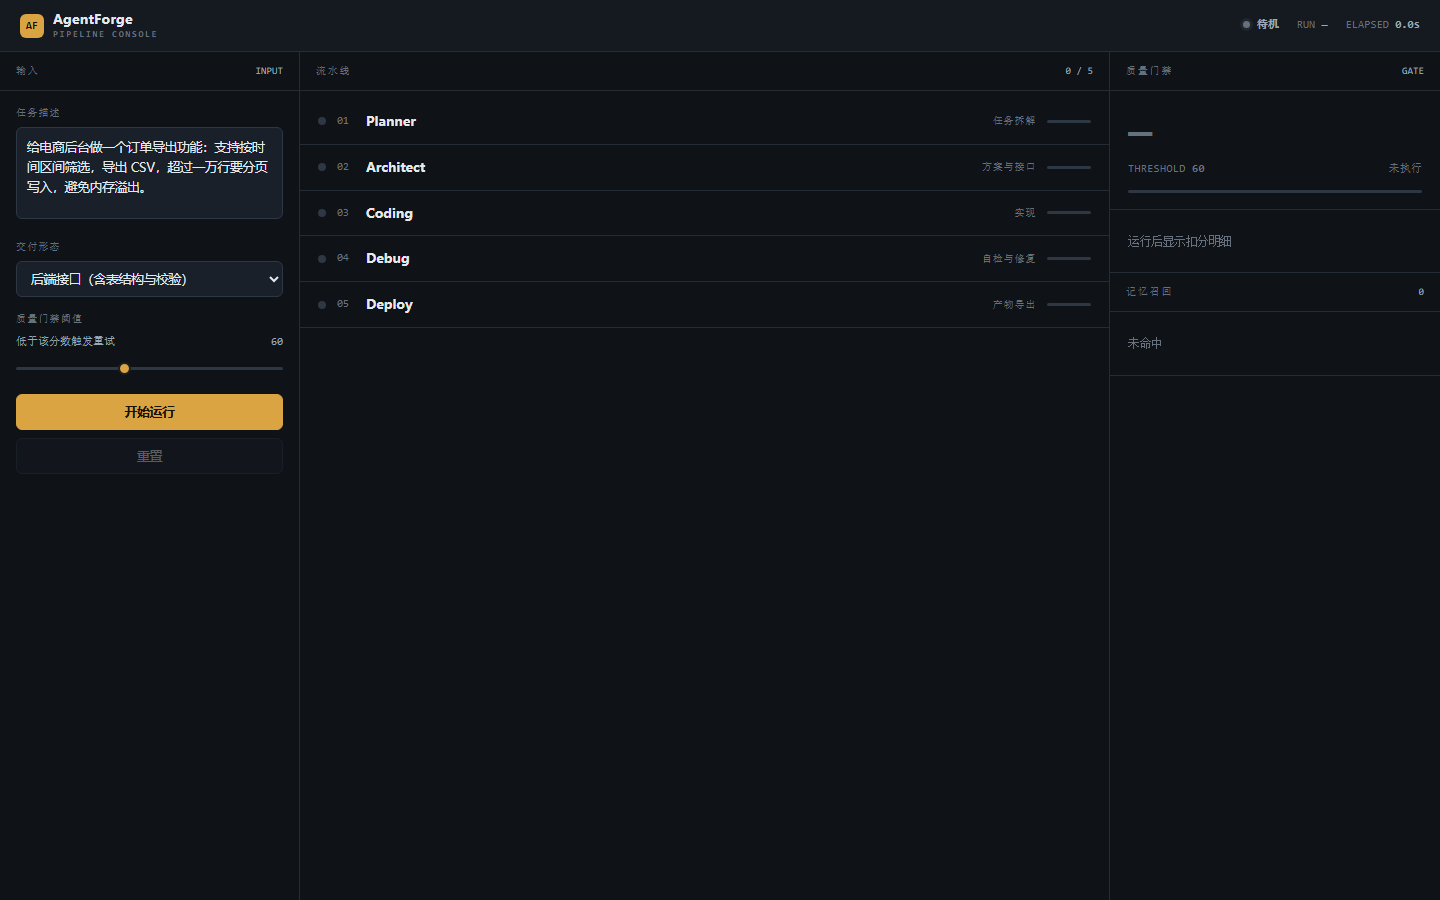
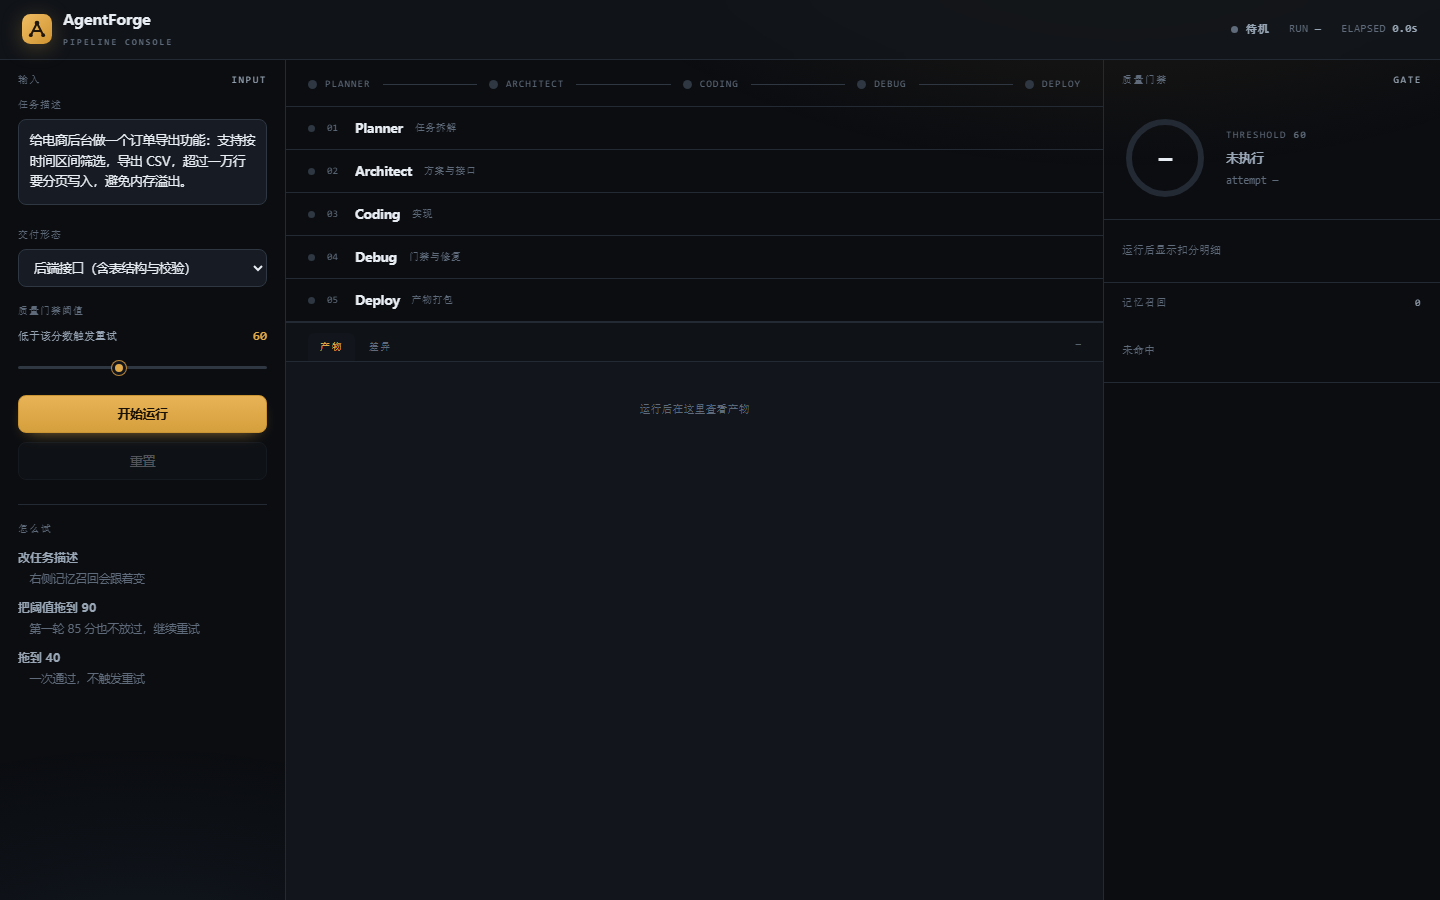
feat(ui): 每个阶段展示推理过程（观察 / 权衡 / 结论）
- 把原先单行日志改为结构化推理块，可点击展开收起，阶段标题右侧保留一句结论
- Planner / Architect / Coding / Debug / Deploy 各自给出观察、权衡、结论
- Debug 阶段展示门禁判定链路：校验 → 判定 → 判断 → 修复 → 结果
- 产物面板固定高度，运行结束后自动回到列表顶部

diff --git a/index.html b/index.html
@@ -94,28 +94,36 @@
   .rline i{position:absolute;inset:0;width:0;background:var(--green);transition:width .5s}
 
   /* 步骤 */
-  .steps{flex:none;overflow-y:auto;max-height:236px}
+  .steps{flex:1;min-height:0;overflow-y:auto}
   .step{border-bottom:1px solid var(--line)}
-  .srow{display:flex;align-items:center;gap:12px;padding:11px 22px}
+  .srow{display:flex;align-items:center;gap:12px;padding:10px 22px;cursor:pointer;user-select:none}
+  .srow:hover .sname{color:var(--ink)}
+  .ssum{font-size:11.5px;color:var(--ink-3);flex:1;text-align:right;padding-right:4px;
+        white-space:nowrap;overflow:hidden;text-overflow:ellipsis}
+  .step.open .ssum{color:var(--ink-3)}
+  .chev{width:12px;height:12px;flex:none;color:var(--ink-3);transition:transform .22s}
+  .step.open .chev{transform:rotate(90deg);color:var(--amber)}
   .sn{font-family:var(--mono);font-size:10px;color:var(--ink-3);width:16px;flex:none}
   .sname{font-weight:600;font-size:12.5px;flex:none}
-  .stag{font-family:var(--mono);font-size:9.5px;color:var(--ink-3);flex:1;letter-spacing:.1em;
-        text-transform:uppercase}
+  .stag{font-family:var(--mono);font-size:9.5px;color:var(--ink-3);flex:none;letter-spacing:.1em;
+        text-transform:uppercase;width:78px}
   .sdot{width:7px;height:7px;border-radius:50%;background:var(--line-2);flex:none;transition:.3s}
   .step.act .sdot{background:var(--amber);box-shadow:0 0 0 3px rgba(224,169,74,.14)}
   .step.ok .sdot{background:var(--green)}
   .step.act .sname{color:var(--amber)}
-  .log{display:none;padding:0 22px 12px 50px;font-family:var(--mono);font-size:10.5px;
-       line-height:1.8;color:var(--ink-2)}
-  .step.act .log{display:block}
-  .log div{animation:fin .25s ease;white-space:pre-wrap}
+  .think{display:none;padding:2px 22px 14px 50px}
+  .step.open .think{display:block}
+  .tk{display:flex;gap:10px;padding:3px 0;font-size:11px;line-height:1.7;animation:fin .3s ease}
+  .tk b{flex:none;width:30px;font-family:var(--mono);font-size:9.5px;letter-spacing:.06em;
+        color:var(--amber);font-weight:600;padding-top:3px}
+  .tk span{color:var(--ink-2)}
   @keyframes fin{from{opacity:0}to{opacity:1}}
   .log .k{color:var(--blue)} .log .g{color:var(--green)} .log .a{color:var(--amber)} .log .r{color:var(--red)}
   .cur::after{content:"▌";color:var(--amber);animation:bl 1s steps(2) infinite}
   @keyframes bl{50%{opacity:0}}
 
   /* 产物面板 */
-  .artifact{flex:1;min-height:0;display:flex;flex-direction:column;border-top:1px solid var(--line);background:var(--bg-2)}
+  .artifact{flex:none;height:284px;display:flex;flex-direction:column;border-top:1px solid var(--line);background:var(--bg-2)}
   .ahead{flex:none;display:flex;align-items:center;gap:2px;padding:10px 22px 0}
   .tab{font-family:var(--mono);font-size:10px;letter-spacing:.14em;text-transform:uppercase;
        color:var(--ink-3);padding:6px 12px;border-radius:6px 6px 0 0;cursor:pointer;transition:.2s}
@@ -346,24 +354,41 @@
       d.className="step"; d.id="step"+i;
       d.innerHTML='<div class="srow"><span class="sdot"></span><span class="sn">'+("0"+(i+1)).slice(-2)+
         '</span><span class="sname">'+s.n+'</span><span class="stag">'+s.t+
-        '</span></div><div class="log" id="log'+i+'"></div>';
+        '</span><span class="ssum" id="sum'+i+'"></span>'+
+        '<svg class="chev" viewBox="0 0 12 12" fill="none" stroke="currentColor" stroke-width="1.6">'+
+        '<path d="M4 2l4 4-4 4" stroke-linecap="round" stroke-linejoin="round"/></svg>'+
+        '</div><div class="think" id="think'+i+'"></div>';
+      d.querySelector(".srow").onclick=function(){ d.classList.toggle("open"); };
       stepsEl.appendChild(d);
     });
   }
   function stepState(i,cls){
     var el=$("step"+i); if(!el) return;
     el.classList.remove("act","ok"); if(cls) el.classList.add(cls);
+    if(cls==="act"){
+      el.classList.add("open");
+      if(el.scrollIntoView) el.scrollIntoView({block:"nearest",behavior:"smooth"});
+    }
   }
-  async function typeLog(i,lines,speed){
-    var box=$("log"+i);
-    for(var k=0;k<lines.length;k++){
+  function setSum(i,txt){ var e=$("sum"+i); if(e) e.textContent=txt; }
+  async function think(i,rows,speed){
+    var box=$("think"+i);
+    for(var k=0;k<rows.length;k++){
       if(aborted) return;
       var d=document.createElement("div");
-      d.className="cur"; d.innerHTML=lines[k];
-      box.appendChild(d); box.scrollTop=box.scrollHeight;
-      await sleep(speed||200);
-      d.classList.remove("cur");
+      d.className="tk";
+      d.innerHTML="<b>"+rows[k][0]+"</b><span>"+rows[k][1]+"</span>";
+      box.appendChild(d);
+      if(box.scrollIntoView) box.scrollIntoView({block:"nearest"});
+      await sleep(speed||240);
     }
+  }
+  async function stage(i,sum,rows,speed){
+    railState(i,"act"); stepState(i,"act"); setSum(i,sum);
+    await think(i,rows,speed||240);
+    if(aborted) return false;
+    railState(i,"ok"); stepState(i,"ok");
+    return true;
   }
 
   /* 差异（LCS） */
@@ -469,66 +494,75 @@
     $("btnRun").disabled=true; $("btnReset").disabled=true;
     buildRail(); buildSteps();
     scoreEl.textContent="—"; scoreEl.style.color="var(--ink-3)";
-    ringFg.style.strokeDashoffset=D; verdict.textContent="未执行"; verdict.style.color="var(--ink-2)";
+    ringFg.style.strokeDashoffset=D; ringFg.style.stroke="#5f6b7a";
+    verdict.textContent="未执行"; verdict.style.color="var(--ink-2)";
     attemptsEl.textContent="attempt —";
     rulesEl.innerHTML='<div class="empty">运行后显示扣分明细</div>';
     abody.innerHTML='<div class="ph">运行后在这里查看产物</div>'; aCnt.textContent="—";
-    curTab="out"; document.querySelectorAll(".tab").forEach(function(x){x.classList.toggle("on",x.dataset.tab==="out")});
+    curTab="out";
+    document.querySelectorAll(".tab").forEach(function(x){x.classList.toggle("on",x.dataset.tab==="out")});
 
     var task=$("task").value, hits=recall(task);
     renderMem(hits);
 
-    railState(0,"act"); stepState(0,"act");
-    await typeLog(0,['<span class="k">input</span>  '+task.slice(0,28)+'…',
-      '拆解为 4 个可交付项：接口契约 / 分页策略 / 时间处理 / 异常边界',
-      '<span class="g">done</span>  4 项 · 预计改动 3 个文件'],220);
-    if(aborted) return; railState(0,"ok"); stepState(0,"ok");
+    if(!await stage(0,"拆成 4 个可交付项",[
+      ["观察","需求里有三个硬约束：按时间区间筛选、导出行数未知、内存不能随行数增长"],
+      ["权衡","先全量读出再写文件？实现最快，但十万行必然爆内存 —— 直接排除"],
+      ["结论","拆成四块：接口契约 / 分页策略 / 时间处理 / 异常边界"]
+    ])) return;
 
-    railState(1,"act"); stepState(1,"act");
-    await typeLog(1,[
-      hits.length ? '<span class="a">recall</span>  命中 '+hits.length+' 条经验（最高 '+hits[0].s.toFixed(1)+'）'
-                  : '<span class="r">recall</span>  未命中历史经验，按默认策略生成',
-      '契约：GET /api/orders/export  →  text/csv',
-      '<span class="k">note</span>  导出类接口单独鉴权'],200);
-    if(aborted) return; railState(1,"ok"); stepState(1,"ok");
+    if(!await stage(1,"游标分页 · 单独鉴权",[
+      ["观察", hits.length
+        ? "命中 "+hits.length+" 条历史经验；现有列表接口用的是 LIMIT OFFSET"
+        : "未命中历史经验；现有列表接口用的是 LIMIT OFFSET"],
+      ["权衡","OFFSET 深翻页会越翻越慢，第一万页要扫过前一万页；改游标分页的代价是不能跳页 —— 导出不需要跳页"],
+      ["结论","GET /api/orders/export，游标 + 流式写出；导出口单独鉴权，不复用列表权限位"]
+    ])) return;
 
-    railState(2,"act"); stepState(2,"act");
-    await typeLog(2,['<span class="k">write</span>  OrderExportController.java',
-      '<span class="k">write</span>  OrderExportService.java'],240);
+    if(!await stage(2,"生成 Controller + Service",[
+      ["输入","契约：单接口返回 text/csv；策略：游标分批，每批 1000 条"],
+      ["生成","OrderExportController / OrderExportService"],
+      ["注意","CSV 需先写 UTF-8 BOM，否则 Excel 打开中文乱码"]
+    ])) return;
+    renderOut(OUT_1);
+
+    railState(3,"act"); stepState(3,"act"); setSum(3,"门禁校验中");
+    await think(3,[["校验","第 1 轮产物：代码块闭合 / 章节数 / 语言比例 / 长度 / 边界说明"]],220);
     if(aborted) return;
-    renderOut(OUT_1); railState(2,"ok"); stepState(2,"ok");
-
-    railState(3,"act"); stepState(3,"act");
-    await typeLog(3,['<span class="k">gate</span>  第 1 轮产物校验'],200);
-    if(aborted) return;
-    var th=+thEl.value, s1=judge(OUT_1,th);
+    var th=+thEl.value, s1=judge(OUT_1,th), sFinal=s1;
     attemptsEl.textContent="attempt 1 / 2";
 
     if(s1<th){
-      await typeLog(3,['<span class="r">fail</span>  得分 '+s1+' 低于阈值 '+th+'，带修复指令重试',
-        '<span class="k">fix</span>   补全代码块闭合 / 增加章节 / 补边界说明'],260);
+      await think(3,[
+        ["判定","得分 "+s1+" 低于阈值 "+th+"，扣分集中在完整性，而非正确性"],
+        ["判断","这类问题可自动修复，不需要人介入 —— 进入重试"],
+        ["修复","补全代码块闭合 / 章节扩到 5 节 / 补边界说明"]
+      ],260);
       if(aborted) return;
       await sleep(320);
-      var s2=judge(OUT_2,th);
+      sFinal=judge(OUT_2,th);
       attemptsEl.textContent="attempt 2 / 2";
       diffData=diff(OUT_1,OUT_2);
       renderOut(OUT_2);
       document.querySelectorAll(".tab").forEach(function(x){x.classList.toggle("on",x.dataset.tab==="diff")});
       curTab="diff"; renderDiff();
-      await typeLog(3,['<span class="g">pass</span>  第 2 轮得分 '+s2+'，通过门禁','<span class="k">view</span>  已切到「差异」，可逐行查看改动'],240);
+      await think(3,[["结果","第 2 轮得分 "+sFinal+"，通过门禁；已切到「差异」逐行对比"]],240);
       if(aborted) return;
+      setSum(3,"门禁 "+s1+" → "+sFinal+" · 重试 1 次");
     }else{
-      await typeLog(3,['<span class="g">pass</span>  得分 '+s1+'，一次通过'],240);
+      await think(3,[["结果","得分 "+s1+"，一次通过，未触发重试"]],220);
+      setSum(3,"门禁 "+s1+" · 一次通过");
     }
     railState(3,"ok"); stepState(3,"ok");
 
-    railState(4,"act"); stepState(4,"act");
-    await typeLog(4,['<span class="k">pack</span>  ARCHITECTURE.md · API.md · CHANGELOG.md',
-      '<span class="g">ok</span>    产物已就绪'],200);
-    if(aborted) return; railState(4,"ok"); stepState(4,"ok");
+    if(!await stage(4,"打包 3 份产物",[
+      ["汇总","ARCHITECTURE.md / API.md / CHANGELOG.md"],
+      ["说明","产物与门禁明细均保留，改动可逐行查看"]
+    ])) return;
 
     running=false; setSt("已完成","ok"); clearInterval(timer); elapsedEl.textContent=now();
     $("btnRun").disabled=false; $("btnReset").disabled=false;
+    stepsEl.scrollTop=0;
   }
 
   $("btnRun").onclick=run;
